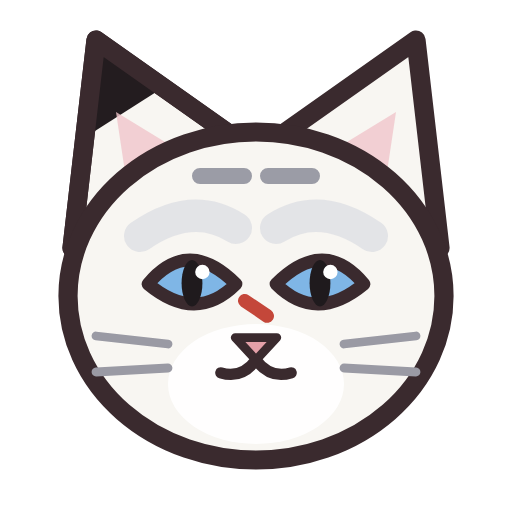
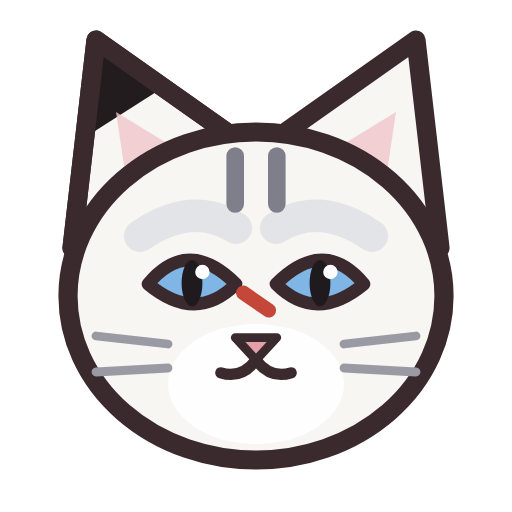
Retratos pintados de teste: Diana e Dona Coruja
Diana: riscos da testa agora verticais, no meio da testa, e o arranhão no
dorso do nariz, entre os olhos, bem acima das narinas (vetor e pedido).
O fundo transparente da API apagava o pelo branco: personagens em
"fundo_opaco" vêm num verde liso, recortado localmente a partir das bordas.

Claude-Session: https://claude.ai/code/session_01PkEowQDcfGFB4a7UX4ATyH

Changed region(s): [[0.375, 0.2812, 0.625, 0.4375], [0.4375, 0.5625, 0.5625, 0.6562]]

diff --git a/dist/dice-duel.html b/dist/dice-duel.html
@@ -1309,6 +1309,8 @@ img.avatar { object-fit: contain; }
   <script>
 /* gerado por tools/arte_icones.py: os retratos pintados (webp em data URI). Vazio = só vetor. */
 window.RETRATOS_PINTADOS = Object.assign(window.RETRATOS_PINTADOS || {}, {
[2 lines of base64/hex data omitted]
 });
 
 </script>
@@ -1328,7 +1330,7 @@ window.RETRATOS_PINTADOS = Object.assign(window.RETRATOS_PINTADOS || {}, {
   const SVG = {
     // ---------- rivais ----------
     // Diana: gata branca de olhos azuis; ponta da orelha direita (dela) preta, a esquerda branca;
-    // cinza leve logo acima dos olhos, dois riscos escuros simétricos na testa e um arranhão no dorso do nariz
+    // cinza leve logo acima dos olhos, dois riscos escuros verticais no meio da testa (um de cada lado) e um arranhão no dorso do nariz, entre os olhos, bem acima das narinas
     diana: `
       <path d="M9 31 L12 5 L29 17 Z" fill="#f8f6f2" ${L}/>
       <path d="M10.6 17.2 L12 5 L20.3 11 Z" fill="#231c1f"/>
@@ -1338,12 +1340,12 @@ window.RETRATOS_PINTADOS = Object.assign(window.RETRATOS_PINTADOS || {}, {
       <path d="M49.5 14 L48 24 L40.5 19.5 Z" fill="#f0c6cb" opacity=".8"/>
       <ellipse cx="32" cy="37" rx="23.5" ry="20.5" fill="#f8f6f2" ${L}/>
       <path d="M17.5 29.5 q6.5 -4.5 12 -1 M34.5 28.5 q5.5 -3.5 12 1" stroke="#dcdde3" stroke-width="4" fill="none" stroke-linecap="round" opacity=".75"/>
-      <path d="M25 22 h5.5 M33.5 22 h5.5" stroke="#9b9ca6" stroke-width="2" stroke-linecap="round"/>
+      <path d="M29.4 19.5 v6 M34.6 19.5 v6" stroke="#7e7f8a" stroke-width="2.2" stroke-linecap="round"/>
       <ellipse cx="32" cy="48" rx="11" ry="7.5" fill="#fff" opacity=".9"/>
       <g class="olho"><path d="M18.5 35.5 q5 -6 11 0 q-5 5 -11 0 z" fill="#7fb6e6" ${l(1.6)}/><ellipse cx="24" cy="35.4" rx="1.3" ry="2.9" fill="#1f1a1d"/>
       <path d="M34.5 35.5 q6 -6 11 0 q-6 5 -11 0 z" fill="#7fb6e6" ${l(1.6)}/><ellipse cx="40" cy="35.4" rx="1.3" ry="2.9" fill="#1f1a1d"/></g>
       <circle cx="25.3" cy="34" r=".9" fill="#fff"/><circle cx="41.3" cy="34" r=".9" fill="#fff"/>
-      <path d="M30.6 37.6 l2.8 1.9" stroke="#c4473a" stroke-width="1.7" stroke-linecap="round"/>
+      <path d="M30.4 36.6 l3.2 2.2" stroke="#c4473a" stroke-width="1.8" stroke-linecap="round"/>
       <path d="M29.4 42.2 h5.2 l-2.6 2.8 z" fill="#e3a0a8" ${l(1.1)}/>
       <path d="M32 45 q-1.8 2.4 -4.4 1.6 M32 45 q1.8 2.4 4.4 1.6" fill="none" ${l(1.4)}/>
       <path d="M12 42 l9 1 M12 46.5 l9 -.5 M52 42 l-9 1 M52 46.5 l-9 -.5" stroke="#9a9aa4" stroke-width="1.1" stroke-linecap="round"/>`,

diff --git a/js/retratos_pintados.js b/js/retratos_pintados.js
@@ -1,3 +1,5 @@
 /* gerado por tools/arte_icones.py: os retratos pintados (webp em data URI). Vazio = só vetor. */
 window.RETRATOS_PINTADOS = Object.assign(window.RETRATOS_PINTADOS || {}, {
[2 lines of base64/hex data omitted]
 });

diff --git a/js/retratos.js b/js/retratos.js
@@ -13,7 +13,7 @@
   const SVG = {
     // ---------- rivais ----------
     // Diana: gata branca de olhos azuis; ponta da orelha direita (dela) preta, a esquerda branca;
-    // cinza leve logo acima dos olhos, dois riscos escuros simétricos na testa e um arranhão no dorso do nariz
+    // cinza leve logo acima dos olhos, dois riscos escuros verticais no meio da testa (um de cada lado) e um arranhão no dorso do nariz, entre os olhos, bem acima das narinas
     diana: `
       <path d="M9 31 L12 5 L29 17 Z" fill="#f8f6f2" ${L}/>
       <path d="M10.6 17.2 L12 5 L20.3 11 Z" fill="#231c1f"/>
@@ -23,12 +23,12 @@
       <path d="M49.5 14 L48 24 L40.5 19.5 Z" fill="#f0c6cb" opacity=".8"/>
       <ellipse cx="32" cy="37" rx="23.5" ry="20.5" fill="#f8f6f2" ${L}/>
       <path d="M17.5 29.5 q6.5 -4.5 12 -1 M34.5 28.5 q5.5 -3.5 12 1" stroke="#dcdde3" stroke-width="4" fill="none" stroke-linecap="round" opacity=".75"/>
-      <path d="M25 22 h5.5 M33.5 22 h5.5" stroke="#9b9ca6" stroke-width="2" stroke-linecap="round"/>
+      <path d="M29.4 19.5 v6 M34.6 19.5 v6" stroke="#7e7f8a" stroke-width="2.2" stroke-linecap="round"/>
       <ellipse cx="32" cy="48" rx="11" ry="7.5" fill="#fff" opacity=".9"/>
       <g class="olho"><path d="M18.5 35.5 q5 -6 11 0 q-5 5 -11 0 z" fill="#7fb6e6" ${l(1.6)}/><ellipse cx="24" cy="35.4" rx="1.3" ry="2.9" fill="#1f1a1d"/>
       <path d="M34.5 35.5 q6 -6 11 0 q-6 5 -11 0 z" fill="#7fb6e6" ${l(1.6)}/><ellipse cx="40" cy="35.4" rx="1.3" ry="2.9" fill="#1f1a1d"/></g>
       <circle cx="25.3" cy="34" r=".9" fill="#fff"/><circle cx="41.3" cy="34" r=".9" fill="#fff"/>
-      <path d="M30.6 37.6 l2.8 1.9" stroke="#c4473a" stroke-width="1.7" stroke-linecap="round"/>
+      <path d="M30.4 36.6 l3.2 2.2" stroke="#c4473a" stroke-width="1.8" stroke-linecap="round"/>
       <path d="M29.4 42.2 h5.2 l-2.6 2.8 z" fill="#e3a0a8" ${l(1.1)}/>
       <path d="M32 45 q-1.8 2.4 -4.4 1.6 M32 45 q1.8 2.4 4.4 1.6" fill="none" ${l(1.4)}/>
       <path d="M12 42 l9 1 M12 46.5 l9 -.5 M52 42 l-9 1 M52 46.5 l-9 -.5" stroke="#9a9aa4" stroke-width="1.1" stroke-linecap="round"/>`,

diff --git a/tools/arte_icones.py b/tools/arte_icones.py
@@ -15,6 +15,8 @@ Cada imagem fica em arte/fonte/<id>.png (1024 px, fundo transparente, para revis
 e entra no jogo como WebP de 160 px em js/retratos_pintados.js, embutida em data URI: funciona por
 file://, no servidor e no HTML único, sem pedido extra de rede. Quem não tem versão pintada usa o vetor
 de js/retratos.js. Para tirar um retrato pintado, apague arte/fonte/<id>.png e rode --embutir.
+Personagens claros (os de "fundo_opaco" em arte/retratos.json) somem no fundo transparente da API, que
+toma o pelo branco por fundo: esses vêm num verde liso e o verde é recortado aqui, a partir das bordas.
 """
 import base64
 import io
@@ -26,7 +28,7 @@ import urllib.error
 import urllib.request
 from pathlib import Path
 
-from PIL import Image
+from PIL import Image, ImageDraw
 
 RAIZ = Path(__file__).resolve().parent.parent
 PEDIDOS = RAIZ / "arte" / "retratos.json"
@@ -39,7 +41,11 @@ LADO = 160          # px do WebP no jogo (o maior retrato na tela tem ~120 px em
 def prompt_de(cfg, id_):
     texto = cfg["retratos"][id_]
     partes = [cfg["referencia"]] if (REFERENCIA / f"{id_}.png").exists() and cfg.get("referencia") else []
-    partes.append(cfg["estilo"])
+    if id_ in cfg.get("fundo_opaco", []):
+        partes.append(cfg["estilo"].replace("plain transparent background", "no transparency"))
+        partes.append(cfg["fundo_opaco_texto"])
+    else:
+        partes.append(cfg["estilo"])
     if texto.startswith("SPECIAL."):
         partes.append(cfg["especial"])
         texto = texto[len("SPECIAL."):].strip()
@@ -57,12 +63,12 @@ def multipart(campos, arquivo):
     return b"".join(partes), f"multipart/form-data; boundary={fronteira}"
 
 
-def gerar(prompt, qualidade, ref=None):
+def gerar(prompt, qualidade, ref=None, fundo="transparent"):
     chave = os.environ.get("OPENAI_API_KEY")
     if not chave:
         sys.exit("Falta OPENAI_API_KEY no ambiente.")
     campos = {"model": os.environ.get("ARTE_MODELO", "gpt-image-1"), "prompt": prompt, "size": "1024x1024",
-              "background": "transparent", "quality": qualidade, "n": 1}
+              "background": fundo, "quality": qualidade, "n": 1}
     if ref is not None:
         # com referência: edição a partir do vetor; "input_fidelity" alta segura o desenho original
         corpo, tipo = multipart({**campos, "input_fidelity": "high"}, ref)
@@ -81,7 +87,7 @@ def gerar(prompt, qualidade, ref=None):
             msg = e.read().decode(errors="replace")[:400]
             if e.code == 400 and ref is not None:
                 print(f"  a API recusou a edição com referência ({msg[:160]}); tentando só com o texto", flush=True)
-                return gerar(prompt, qualidade)
+                return gerar(prompt, qualidade, fundo=fundo)
             if e.code in (429, 500, 502, 503) and tentativa < 3:
                 time.sleep(2 ** (tentativa + 2)); continue
             sys.exit(f"A API recusou ({e.code}): {msg}")
@@ -89,6 +95,27 @@ def gerar(prompt, qualidade, ref=None):
             if tentativa < 3:
                 time.sleep(2 ** (tentativa + 2)); continue
             sys.exit(f"Sem conexão com a API: {e}")
+
+
+def recortar_fundo(png_bytes, tolerancia=70):
+    """apaga o fundo liso: inunda a partir das bordas (o contorno grosso segura) e torna transparente"""
+    im = Image.open(io.BytesIO(png_bytes)).convert("RGBA")
+    rgb = im.convert("RGB")
+    marca = (255, 0, 255)
+    w, h = rgb.size
+    for x, y in [(0, 0), (w - 1, 0), (0, h - 1), (w - 1, h - 1), (w // 2, 0), (w // 2, h - 1), (0, h // 2), (w - 1, h // 2)]:
+        if rgb.getpixel((x, y)) != marca:
+            ImageDraw.floodfill(rgb, (x, y), marca, thresh=tolerancia)
+    alfa = Image.new("L", im.size, 255)
+    px, pa = rgb.load(), alfa.load()
+    for y in range(h):
+        for x in range(w):
+            if px[x, y] == marca:
+                pa[x, y] = 0
+    im.putalpha(alfa)
+    buf = io.BytesIO()
+    im.save(buf, "PNG")
+    return buf.getvalue()
 
 
 def webp(png_bytes):
@@ -141,7 +168,11 @@ def main():
         print(f"pintando {id_}…", flush=True)
         ref = REFERENCIA / f"{id_}.png"
         ref = ref if ref.exists() else None
-        (FONTE / f"{id_}.png").write_bytes(gerar(p, qualidade, ref))
+        if id_ in cfg.get("fundo_opaco", []):
+            png = recortar_fundo(gerar(p, qualidade, ref, fundo="opaque"))
+        else:
+            png = gerar(p, qualidade, ref)
+        (FONTE / f"{id_}.png").write_bytes(png)
         (FONTE / f"{id_}.json").write_text(json.dumps({"prompt": p, "qualidade": qualidade, "referencia": bool(ref), "modelo": os.environ.get("ARTE_MODELO", "gpt-image-1")}, ensure_ascii=False, indent=1))
     if not seco:
         embutir()
